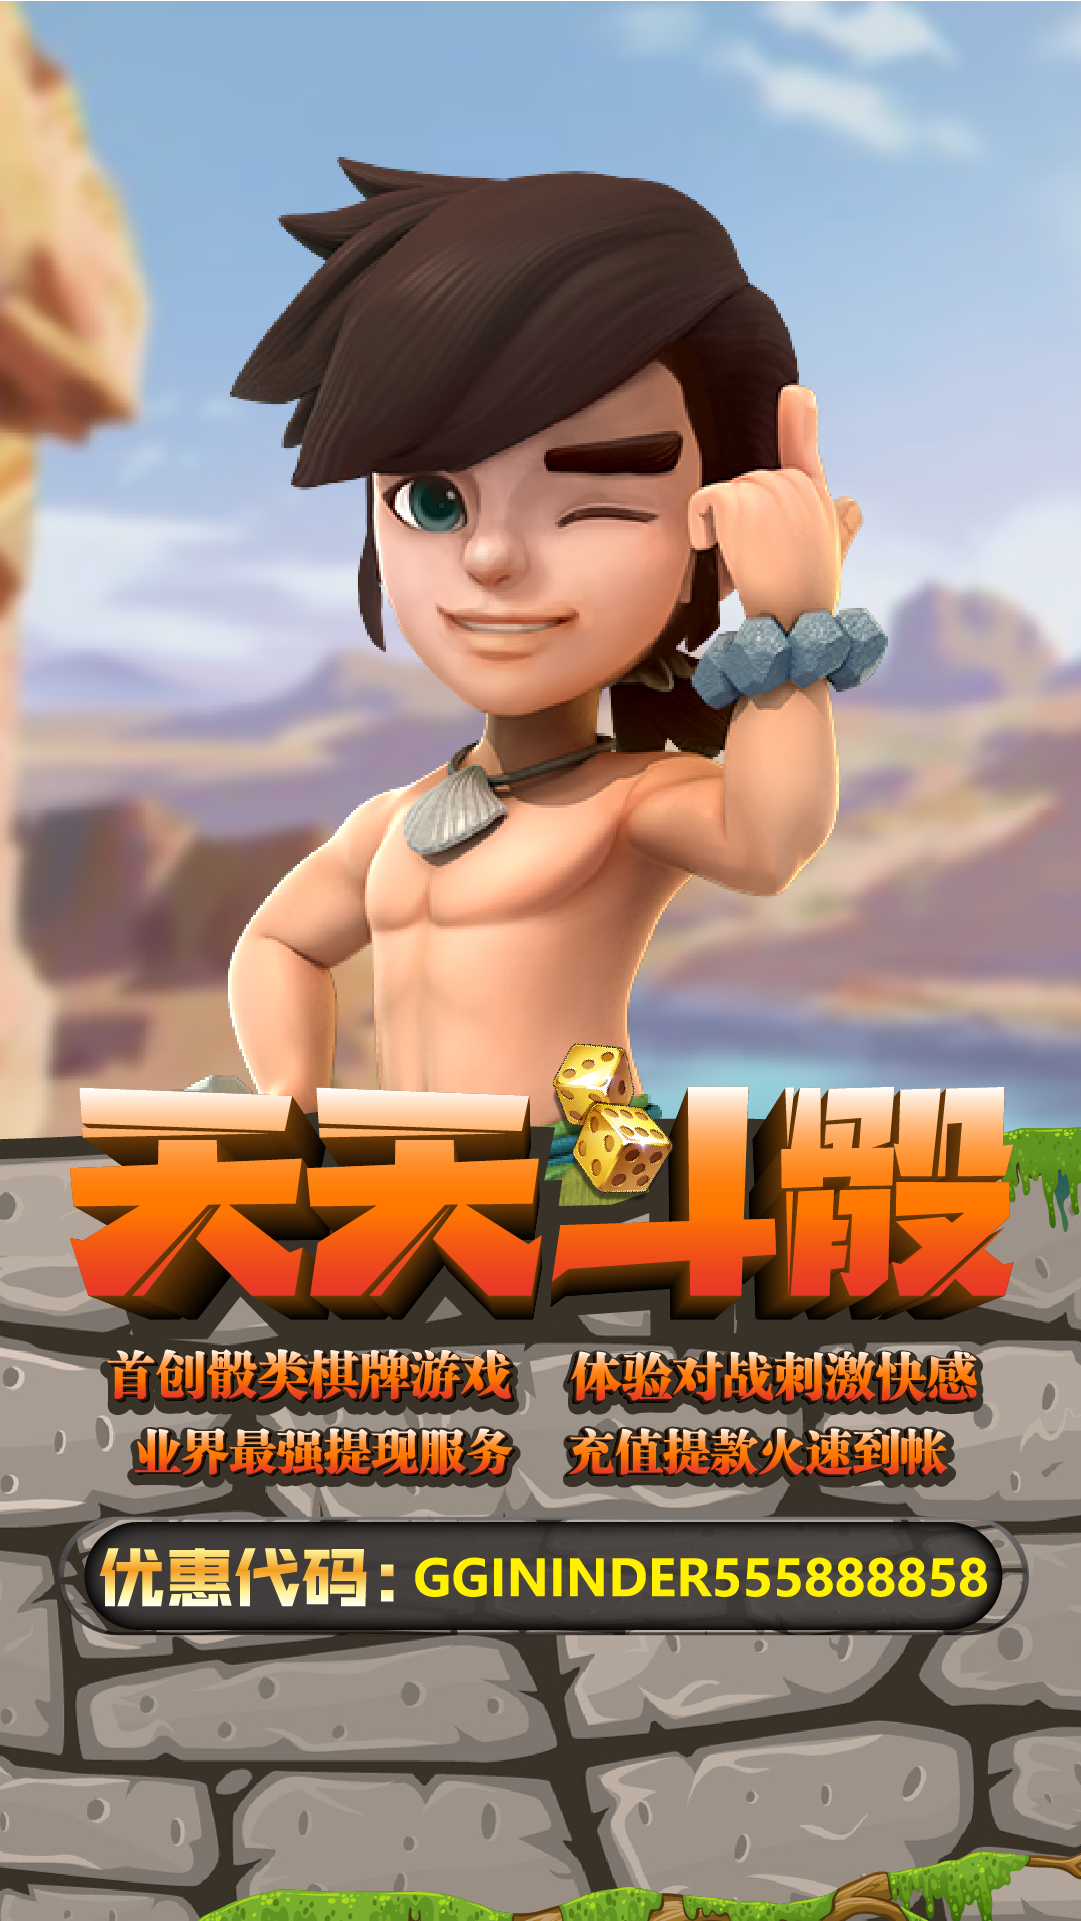
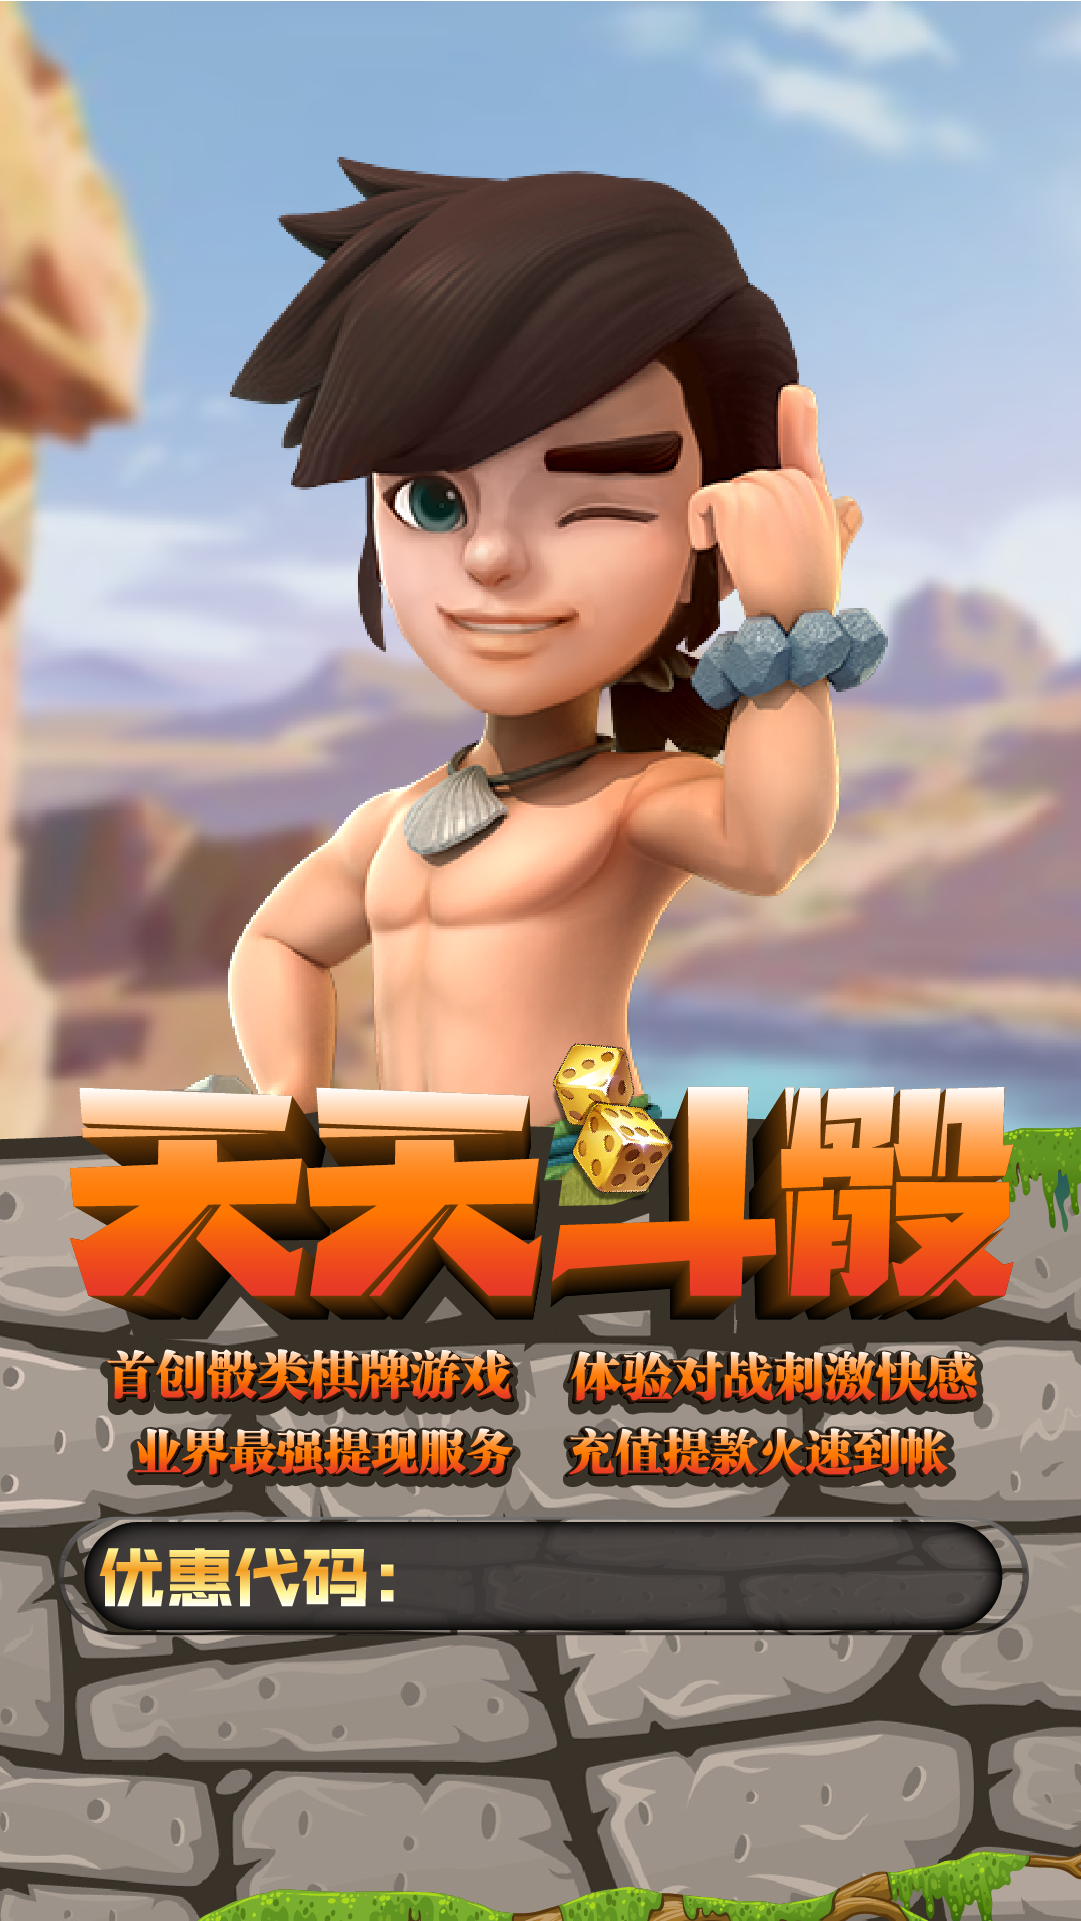
第一頁背景變更 將優惠代碼 input 註解打開

Changed region(s): [[0.3663, 0.8121, 0.9158, 0.8433]]

diff --git a/index.html b/index.html
@@ -37,9 +37,9 @@
                         <div style="cursor: pointer"><a href="download.html"><img src="./img/download.png" class="img-fluid downloadIntro downloadImg"></a></div>
                     </div>
                     <!-- 優惠代碼 input  -->
-                    <!-- <div class="inputText">
+                    <div class="inputText">
                         <input type="text" readonly="readonly" class="form-control inputOffer" style="background:rgba(0,0,0,0); border: 0; color: yellow; font-weight: bold;">
-                    </div> -->
+                    </div>
                     <!-- 註冊按鈕 -->
                     <div style="position: absolute; z-index: 5; bottom: 43%; right: 3px">
                         <div data-toggle="modal" data-target="#registerModal" style="cursor: pointer"><img src="./img/rigester.png" class="img-fluid bg1regi"></div>

diff --git a/css/self.css b/css/self.css
@@ -13,7 +13,7 @@
     width: 50%;
     position: absolute;
     font-weight: bold;
-    bottom: 90px;
+    bottom: 107px;
     right: 50px;
 }
 .inputOffer {
@@ -67,7 +67,7 @@
     .inputText {
         width: 50%;
         position: absolute;
-        bottom: 130px;
+        bottom: 163px;
         right: 70px;
     }
     .inputOffer {
@@ -98,12 +98,12 @@
 }
 @media (max-width: 375px) {
     .inputText {
-        bottom: 83px;
+        bottom: 101px;
     }
 }
 @media (max-width: 320px) {
     .inputText {
-        bottom: 67px;
+        bottom: 83px;
     }
     .inputOffer {
         font-size: 20px;
